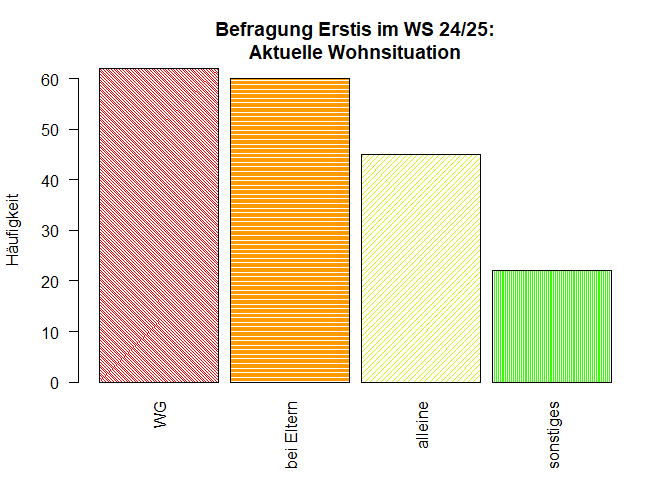
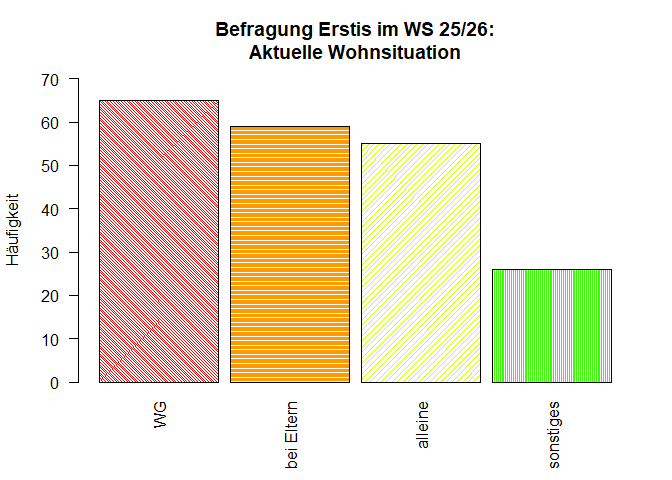
Deskriptiv-nominal updated to fb25

diff --git a/content/lehre/statistik-i/deskriptiv-nominal-ordinal-loesungen.md b/content/lehre/statistik-i/deskriptiv-nominal-ordinal-loesungen.md
@@ -11,7 +11,7 @@ authors:
 - buchholz
 - nehler
 - sinn
-lastmod: '2025-05-13'
+lastmod: '2025-11-03'
 featured: no
 banner:
   image: /header/frogs_on_phones.jpg
@@ -44,80 +44,81 @@ Die Lösungen sind exemplarische Möglichkeiten. In `R` gibt es immer viele Wege
 
 ### Vorbereitung
 
-> Laden Sie die Daten aus [<i class="fas fa-download"></i> `fb24.rda`](/daten/fb24.rda) oder direkt von der Website über die gelernten Befehle. Die Bedeutung der einzelnen Variablen und ihre Antwortkategorien können Sie dem Dokument [Variablenübersicht](/lehre/statistik-i/variablen.pdf) entnehmen.
+> Laden Sie die Daten aus [<i class="fas fa-download"></i> `fb25.rda`](/daten/fb25.rda) oder direkt von der Website über die gelernten Befehle. Die Bedeutung der einzelnen Variablen und ihre Antwortkategorien können Sie dem Dokument [Variablenübersicht](/lehre/statistik-i/variablen.pdf) entnehmen.
 
 <details><summary>Lösung</summary>
 
 Daten laden:
 
 
-```r
-load(url('https://pandar.netlify.app/daten/fb24.rda'))  
+``` r
+load(url('https://pandar.netlify.app/daten/fb25.rda'))  
 ```
 
 
 Überblick über den Datensatz verschaffen:
 
 
-```r
-dim(fb24)
+``` r
+dim(fb25)
 ```
 
 ```
-## [1] 192  42
+## [1] 211  43
 ```
 
-```r
-str(fb24)
+``` r
+str(fb25)
 ```
 
 ```
-## 'data.frame':	192 obs. of  42 variables:
-##  $ mdbf1      : num  4 3 3 3 3 2 4 2 3 4 ...
-##  $ mdbf2      : num  3 2 3 1 2 2 4 3 3 4 ...
-##  $ mdbf3      : num  1 1 1 2 3 1 1 2 2 1 ...
-##  $ mdbf4      : num  1 1 1 2 1 3 1 1 1 1 ...
-##  $ mdbf5      : num  3 1 3 3 2 4 1 2 1 1 ...
-##  $ mdbf6      : num  3 3 3 2 2 3 3 3 3 4 ...
-##  $ mdbf7      : num  3 3 2 3 2 4 1 4 1 1 ...
-##  $ mdbf8      : num  4 4 3 3 3 2 4 3 4 4 ...
-##  $ mdbf9      : num  1 2 1 2 3 2 3 3 2 1 ...
-##  $ mdbf10     : num  3 3 3 3 3 2 3 2 4 4 ...
-##  $ mdbf11     : num  1 1 1 2 3 2 2 1 2 1 ...
-##  $ mdbf12     : num  3 4 3 3 2 2 3 2 3 4 ...
-##  $ time_pre   : num  49 68 107 38 45 100 61 40 36 40 ...
-##  $ lz         : num  6.6 4 5.2 4 5 4.4 6.4 4 4.6 6 ...
-##  $ extra      : num  5 4 3 1.5 2.5 4.5 4 2.5 4 3 ...
-##  $ vertr      : num  4 3 3 3 3.5 2.5 4 2.5 4.5 3 ...
-##  $ gewis      : num  4 4.5 4 3.5 2.5 4 3.5 3.5 4 5 ...
-##  $ neuro      : num  1.5 3 3.5 3.5 4.5 3.5 2.5 3.5 5 2.5 ...
-##  $ offen      : num  4 4 4 3.5 4.5 4 4 4 4.5 3 ...
-##  $ prok       : num  2.7 2.5 2.9 2.8 2.9 2.7 2.4 2.5 2.7 2.6 ...
-##  $ nerd       : num  2.5 2.33 2.83 4 3.67 ...
-##  $ uni1       : num  0 0 0 0 0 0 0 0 1 0 ...
+## 'data.frame':	211 obs. of  43 variables:
+##  $ mdbf1      : num  3 3 3 4 4 3 3 3 2 3 ...
+##  $ mdbf2      : num  3 2 3 1 3 3 3 2 3 2 ...
+##  $ mdbf3      : num  1 2 2 3 1 1 1 1 3 3 ...
+##  $ mdbf4      : num  1 2 2 1 1 1 1 1 1 2 ...
+##  $ mdbf5      : num  1 2 2 2 1 1 1 3 2 3 ...
+##  $ mdbf6      : num  3 2 3 1 3 2 1 3 4 2 ...
+##  $ mdbf7      : num  1 3 2 3 2 2 2 4 2 3 ...
+##  $ mdbf8      : num  3 3 3 4 4 3 3 3 3 3 ...
+##  $ mdbf9      : num  1 3 2 2 1 4 2 1 3 4 ...
+##  $ mdbf10     : num  3 3 2 1 3 3 2 2 3 3 ...
+##  $ mdbf11     : num  1 2 2 1 1 1 2 1 3 2 ...
+##  $ mdbf12     : num  3 2 2 3 3 2 2 3 2 1 ...
+##  $ time_pre   : num  43 55 79 53 28 35 44 29 30 52 ...
+##  $ lz         : num  5 3 5 6 5.8 5.2 4.6 4.8 6.8 2.6 ...
+##  $ extra      : num  3.5 4 2.5 4 4.5 3 2.5 2.5 3.5 2 ...
+##  $ vertr      : num  4 3 4 3 2 4.5 2.5 4 3 2.5 ...
+##  $ gewis      : num  2.5 4.5 3.5 4.5 3 3.5 2.5 2 4 5 ...
+##  $ neuro      : num  2 2 3 4 4 5 4.5 1 4.5 5 ...
+##  $ offen      : num  2.5 4.5 4.5 5 4.5 4.5 3.5 4 5 4.5 ...
+##  $ prok       : num  2.6 2.5 2.8 3 2.5 2.9 3 3.4 3.2 2.7 ...
+##  $ trust      : num  3.33 3.83 3.83 3.67 3.67 ...
+##  $ uni1       : num  0 0 1 0 0 0 0 0 0 1 ...
 ##  $ uni2       : num  1 1 1 1 1 1 1 1 1 1 ...
-##  $ uni3       : num  0 0 1 0 0 1 0 1 1 1 ...
-##  $ uni4       : num  0 0 1 0 0 0 0 0 1 0 ...
-##  $ grund      : chr  "Interesse an Menschen, Verhalten und Sozialdynamiken" "Ich will die Menschliche Psyche und menschliches Handeln, Denken verstehen." NA "Um Therapeutin zu werden und Menschen aus meiner früheren Situatuon zu helfen " ...
-##  $ fach       : num  1 3 1 4 4 3 1 3 1 4 ...
-##  $ ziel       : num  3 2 3 2 2 3 1 4 4 2 ...
-##  $ wissen     : int  4 3 5 5 4 3 3 4 5 3 ...
-##  $ therap     : int  5 4 5 5 5 5 4 5 4 5 ...
-##  $ lerntyp    : num  3 1 1 1 1 1 3 3 3 1 ...
-##  $ hand       : num  1 2 2 2 2 2 2 2 1 2 ...
-##  $ job        : num  2 1 2 1 1 1 1 1 2 2 ...
-##  $ ort        : num  2 2 1 1 1 1 1 2 1 1 ...
-##  $ ort12      : num  1 2 1 1 2 2 2 1 2 2 ...
-##  $ wohnen     : num  2 3 3 3 3 3 1 2 1 1 ...
-##  $ attent     : num  5 4 5 5 5 5 5 4 4 5 ...
-##  $ gs_post    : num  NA 3 3.5 2.75 2.5 3 NA 3.25 3 3.25 ...
-##  $ wm_post    : num  NA 2.25 3 2.25 2.5 2.25 NA 2.5 3 3.25 ...
-##  $ ru_post    : num  NA 2.25 2.25 2.25 2 2.25 NA 2.25 2.75 1.75 ...
-##  $ time_post  : num  NA 34 37 37 51 40 NA 40 30 27 ...
-##  $ attent_post: num  NA 5 5 5 5 5 NA 5 5 5 ...
+##  $ uni3       : num  1 0 0 1 0 1 0 0 0 0 ...
+##  $ uni4       : num  0 0 0 0 0 0 0 1 0 1 ...
+##  $ sicher     : int  3 4 4 4 4 3 NA 3 4 3 ...
+##  $ angst      : int  2 2 3 4 3 3 2 2 2 4 ...
+##  $ fach       : int  4 4 4 4 4 4 4 2 2 2 ...
+##  $ ziel       : int  2 2 2 2 2 2 2 1 1 3 ...
+##  $ wissen     : int  NA 3 5 NA NA NA 4 NA 3 5 ...
+##  $ therap     : int  NA 5 5 NA NA NA 5 NA 5 4 ...
+##  $ lerntyp    : int  3 3 3 3 1 3 1 3 2 1 ...
+##  $ hand       : int  2 2 2 2 2 2 2 2 1 2 ...
+##  $ job        : int  2 1 2 2 1 1 1 1 2 2 ...
+##  $ ort        : int  1 2 2 1 2 1 1 2 2 1 ...
+##  $ ort12      : int  2 3 1 3 2 2 2 1 1 1 ...
+##  $ wohnen     : int  3 2 3 1 4 3 1 2 4 1 ...
+##  $ attent_pre : num  4 5 4 5 5 5 5 5 5 4 ...
+##  $ gs_post    : num  3 NA 2.75 3.25 3 3.25 NA 3 2.75 2.25 ...
+##  $ wm_post    : num  3.25 NA 2.75 3.25 2.75 3.25 NA 2.25 1.75 2.25 ...
+##  $ ru_post    : num  2.25 NA 2.25 2.75 2.25 2.5 NA 2 2 2.75 ...
+##  $ time_post  : num  18 NA 71 17 21 51 NA 31 27 34 ...
+##  $ attent_post: num  5 NA 5 5 5 5 NA 5 5 5 ...
 ```
 
-Der Datensatz besteht aus 192 Zeilen (Beobachtungen) und 42 Spalten (Variablen).
+Der Datensatz besteht aus 211 Zeilen (Beobachtungen) und 43 Spalten (Variablen).
 
 </details>
 
@@ -137,11 +138,11 @@ Untersuchen Sie, welche Arbeitsbranche Sie und Ihre Kommiliton:innen nach dem St
 **Faktor erstellen**
 
 
-```r
-fb24$ziel <- factor(fb24$ziel,
+``` r
+fb25$ziel <- factor(fb25$ziel,
                         levels = 1:4,
                         labels = c("Wirtschaft", "Therapie", "Forschung", "Andere"))
-levels(fb24$ziel)
+levels(fb25$ziel)
 ```
 
 ```
@@ -151,32 +152,32 @@ levels(fb24$ziel)
 **Absolute und relative Häufigkeiten anfordern**  
 
 
-```r
-table(fb24$ziel)              # absolut
+``` r
+table(fb25$ziel)              # absolut
 ```
 
 ```
 ## 
 ## Wirtschaft   Therapie  Forschung     Andere 
-##         24        108         27         29
+##         25        121         27         30
 ```
 
-```r
-prop.table(table(fb24$ziel))  # relativ
+``` r
+prop.table(table(fb25$ziel))  # relativ
 ```
 
 ```
 ## 
 ## Wirtschaft   Therapie  Forschung     Andere 
-##  0.1276596  0.5744681  0.1436170  0.1542553
+##  0.1231527  0.5960591  0.1330049  0.1477833
 ```
 
 **Zentrale Tendenz und Dispersion für nominalskalierte Variablen: Modus, relativer Informationsgehalt**
 
 
-```r
+``` r
 # Modus
-which.max(table(fb24$ziel))
+which.max(table(fb25$ziel))
 ```
 
 ```
@@ -185,9 +186,9 @@ which.max(table(fb24$ziel))
 ```
 
 
-```r
+``` r
 #relativer Informationsgehalt
-hj <- prop.table(table(fb24$ziel))  # hj erstellen
+hj <- prop.table(table(fb25$ziel))  # hj erstellen
 ln_hj <- log(hj)                    # Logarithmus bestimmen
 summand <- ln_hj * hj               # Berechnung fuer jede Kategorie
 summe <- sum(summand)               # Gesamtsumme
@@ -197,10 +198,10 @@ relInf
 ```
 
 ```
-## [1] 0.8282775
+## [1] 0.8059006
 ```
 
-Der Modus der Variable lautet Therapie - die meisten Ihres Jahrgangs (*n* = 108 bzw. 57.45%) streben einen Job in diesem Bereich an. Der relative Informationsgehalt der Variable beträgt 0.83. Sie sehen hier, dass wir im Code einen kleinen Unterschied zum Tutorial eingebaut haben. Die Anzahl der Kategorien wird nicht mehr durch `dim(tab)` sondern durch `length(hj)` bestimmt. Das Resultat ist nicht verschieden - die Anzahl der Kategorien wird gezählt. Wir wollen somit aber nochmal deutlich machen, dass es in `R` immer sehr viele Wege zu einem Ziel geben kann.
+Der Modus der Variable lautet Therapie - die meisten Ihres Jahrgangs (*n* = 121 bzw. 59.61%) streben einen Job in diesem Bereich an. Der relative Informationsgehalt der Variable beträgt 0.81. Sie sehen hier, dass wir im Code einen kleinen Unterschied zum Tutorial eingebaut haben. Die Anzahl der Kategorien wird nicht mehr durch `dim(tab)` sondern durch `length(hj)` bestimmt. Das Resultat ist nicht verschieden - die Anzahl der Kategorien wird gezählt. Wir wollen somit aber nochmal deutlich machen, dass es in `R` immer sehr viele Wege zu einem Ziel geben kann.
 
 </details>
 
@@ -219,45 +220,45 @@ Die Variable `therap` enthält die Angaben über das Ausmaß, in dem sich Sie un
 **Modus**
 
 
-```r
-which.max(table(fb24$therap))
+``` r
+which.max(table(fb25$therap))
 ```
 
 ```
 ## 5 
-## 4
+## 3
 ```
 
 **Häufigkeiten**
 
 
-```r
-table(fb24$therap)
+``` r
+table(fb25$therap)
 ```
 
 ```
 ## 
-##   2   3   4   5 
-##   2  10  57 119
+##  3  4  5 
+##  3 28 60
 ```
 
-```r
-prop.table(table(fb24$therap))
+``` r
+prop.table(table(fb25$therap))
 ```
 
 ```
 ## 
-##          2          3          4          5 
-## 0.01063830 0.05319149 0.30319149 0.63297872
+##          3          4          5 
+## 0.03296703 0.30769231 0.65934066
 ```
 
-Der Modus der Variable `therap` beträgt 5, d.h. diese Antwortkategorie wurde am häufigsten genannt (*n* = 119 bzw. 63.3%).
+Der Modus der Variable `therap` beträgt 5, d.h. diese Antwortkategorie wurde am häufigsten genannt (*n* = 60 bzw. 65.93%).
 
 **Boxplot**
 
 
-```r
-boxplot(fb24$therap)
+``` r
+boxplot(fb25$therap)
 ```
 
 ![](/deskriptiv-nominal-ordinal-loesungen_files/unnamed-chunk-9-1.png)<!-- -->
@@ -265,8 +266,8 @@ boxplot(fb24$therap)
 **Quartile**
 
 
-```r
-quantile(fb24$therap, c(.25,.5,.75), na.rm=T)
+``` r
+quantile(fb25$therap, c(.25,.5,.75), na.rm=T)
 ```
 
 ```
@@ -285,15 +286,15 @@ Erstellen Sie für die Variable `wohnen` eine geeignete Abbildung.
 
 * Stellen Sie sicher, dass die einzelnen Ausprägungen der Variable in der Darstellung interpretierbar benannt sind!  
 * Dekorieren Sie diese Abbildung nach eigenen Wünschen (z.B. mit einer Farbpalette und Achsenbeschriftungen).
-* Speichern Sie die Grafik per Syntax als .jpg-Datei mit dem Namen "Befragung-fb24.jpg" ab.
+* Speichern Sie die Grafik per Syntax als .jpg-Datei mit dem Namen "Befragung-fb25.jpg" ab.
 
 <details><summary>Lösung</summary>
 
 **Faktor erstellen**
 
 
-```r
-fb24$wohnen <- factor(fb24$wohnen, 
+``` r
+fb25$wohnen <- factor(fb25$wohnen, 
                       levels = 1:4, 
                       labels = c("WG", "bei Eltern", "alleine", "sonstiges"))
 ```
@@ -303,13 +304,13 @@ fb24$wohnen <- factor(fb24$wohnen,
 Um eine ansprechende Grafik zu erhalten, können wir einige Argumente anpassen. Hier ist natürlich nur eine beispielhafte Lösung abgebildet.
 
 
-```r
+``` r
 # Ansprechende Darstellung
 barplot(
   # wichtig: Funktion auf Häufigkeitstabelle, nicht die Variable selbst anwenden:
-  table(fb24$wohnen),                               
+  table(fb25$wohnen),                               
   # aussagekräftiger Titel, inkl. Zeilenumbruch ("\n") 
-  main = "Befragung Erstis im WS 24/25:\nAktuelle Wohnsituation", 
+  main = "Befragung Erstis im WS 25/26:\nAktuelle Wohnsituation", 
   # y-Achsen-Beschriftung:
   ylab = "Häufigkeit",
   # Farben aus einer Farbpalette:
@@ -325,7 +326,7 @@ barplot(
   # Schriftausrichtung der Achsen horizontal:
   las=2,
   #y-Achse erweitern, sodass mehr Platz zum Titel bleibt:
-  ylim = c(0,60))
+  ylim = c(0,70))
 ```
 
 ![](/deskriptiv-nominal-ordinal-loesungen_files/unnamed-chunk-12-1.png)<!-- -->
@@ -333,11 +334,11 @@ barplot(
 **Speichern (per Syntax)**
 
 
-```r
-jpeg("Befragung-fb24.jpg", width=20, height=10, units="cm", res=200)
+``` r
+jpeg("Befragung-fb25.jpg", width=20, height=10, units="cm", res=200)
 barplot(
-  table(fb24$wohnen),                               
-  main = "Befragung Erstis im WS 24/25:\nAktuelle Wohnsituation", 
+  table(fb25$wohnen),                               
+  main = "Befragung Erstis im WS 25/26:\nAktuelle Wohnsituation", 
   ylab = "Häufigkeit",
   col = rainbow(10),
   space = 0.1,
@@ -345,7 +346,7 @@ barplot(
   density = c(50,75,25,50),
   angle = c(-45,0,45,90),
   las=2,
-  ylim = c(0,60))
+  ylim = c(0,70))
 dev.off()
 ```
 

diff --git a/content/lehre/statistik-i/deskriptiv-nominal-ordinal-uebungen.md b/content/lehre/statistik-i/deskriptiv-nominal-ordinal-uebungen.md
@@ -12,7 +12,7 @@ authors:
 - nehler
 - sinn
 weight: ~
-lastmod: '2025-05-13'
+lastmod: '2025-11-03'
 featured: no
 banner:
   image: /header/frogs_on_phones.jpg
@@ -42,7 +42,7 @@ private: 'true'
 
 ### Vorbereitung
 
-> Laden Sie die Daten aus [<i class="fas fa-download"></i> `fb24.rda`](/daten/fb24.rda) oder direkt von der Website über die gelernten Befehle. Die Bedeutung der einzelnen Variablen und ihre Antwortkategorien können Sie dem Dokument [Variablenübersicht](/lehre/statistik-i/variablen.pdf) entnehmen.
+> Laden Sie die Daten aus [<i class="fas fa-download"></i> `fb25.rda`](/daten/fb25.rda) oder direkt von der Website über die gelernten Befehle. Die Bedeutung der einzelnen Variablen und ihre Antwortkategorien können Sie dem Dokument [Variablenübersicht](/lehre/statistik-i/variablen.pdf) entnehmen.
 
 
 ## Aufgabe 1
@@ -69,5 +69,5 @@ Erstellen Sie für die Variable `wohnen` eine geeignete Abbildung.
 
 * Stellen Sie sicher, dass die einzelnen Ausprägungen der Variable in der Darstellung interpretierbar benannt sind!  
 * Dekorieren Sie diese Abbildung nach eigenen Wünschen (z.B. mit einer Farbpalette und Achsenbeschriftungen).
-* Speichern Sie die Grafik per Syntax als .jpg-Datei mit dem Namen "Befragung-fb24.jpg" ab.
+* Speichern Sie die Grafik per Syntax als .jpg-Datei mit dem Namen "Befragung-fb25.jpg" ab.
 
